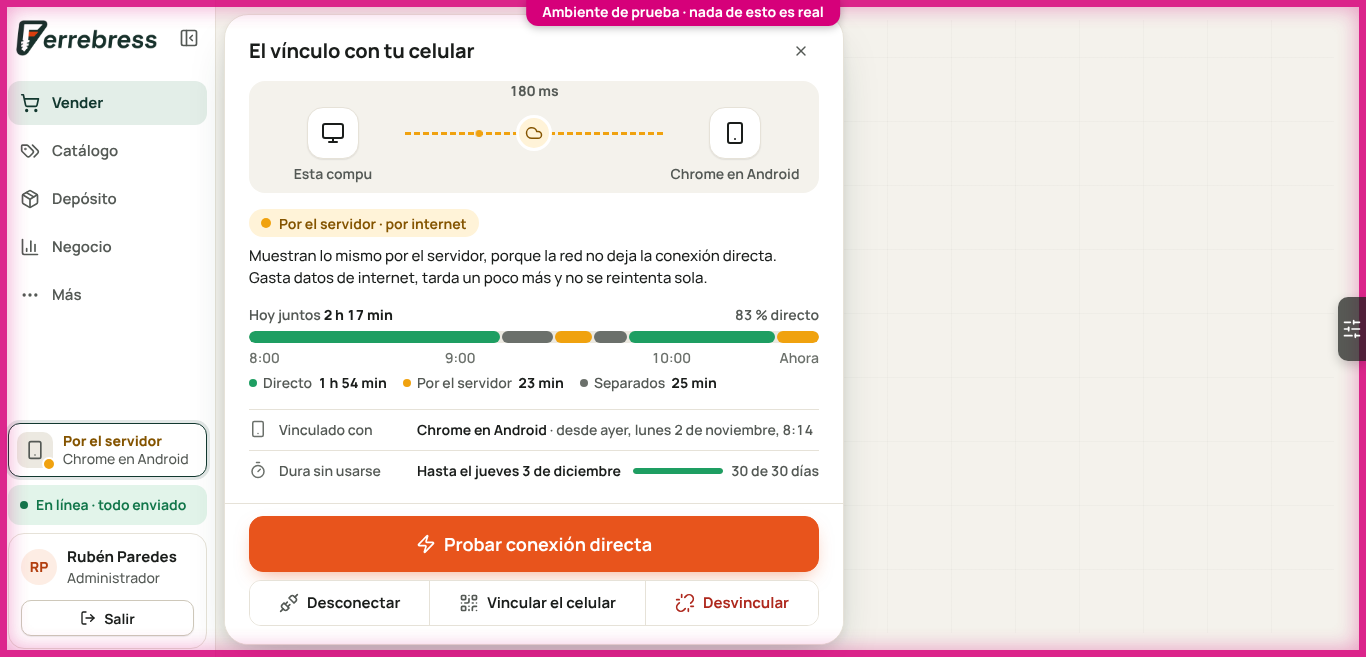
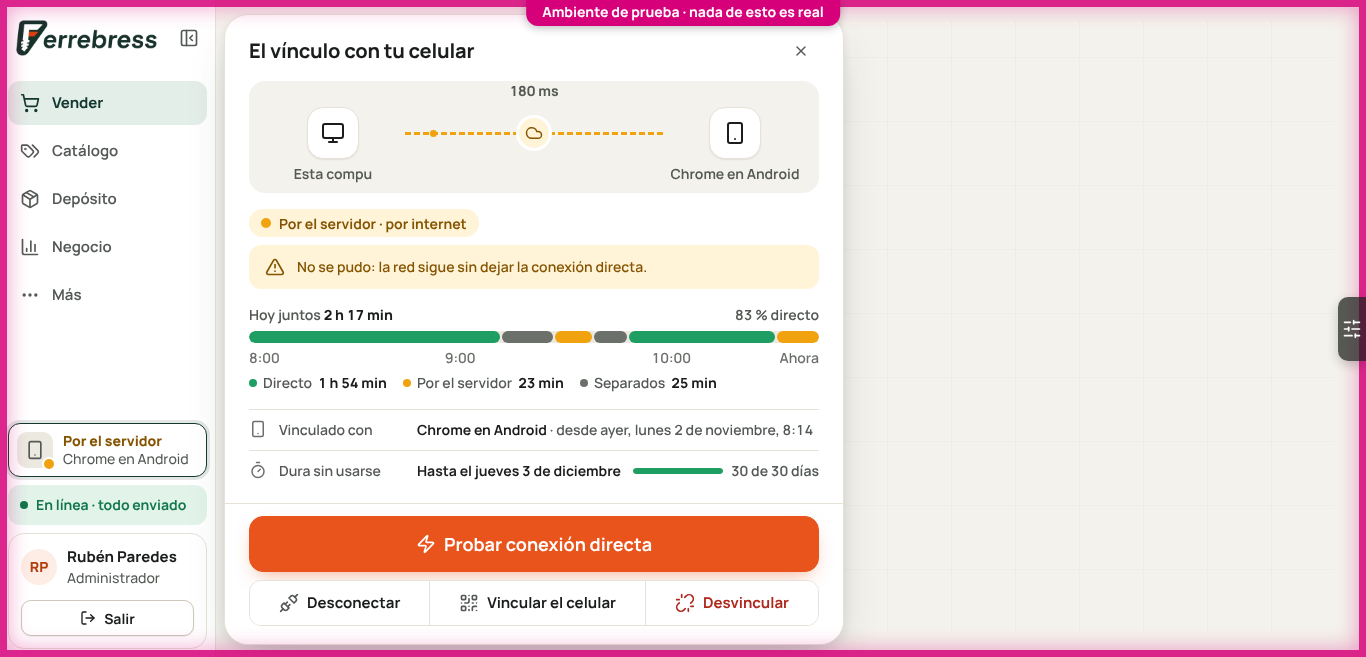
03a · paso 2: Carlos aprobó el indicador del vínculo
El aviso «No se pudo» reemplaza la frase del estado, así la ficha entra sin desplazarse en una
notebook. «Separados» y Alt X para Desvincular, confirmados por Carlos.

Claude-Session: https://claude.ai/code/session_01BmbhiYJAfQvWshUgYzn7JL

Changed region(s): [[0.1845, 0.3653, 0.6149, 0.4566]]

diff --git a/docs/design/mockups/device-link-indicator/final/link.js b/docs/design/mockups/device-link-indicator/final/link.js
@@ -144,9 +144,12 @@
     h += '<div class="ficha-cab"><h2 id="ficha-titulo">' + titulo + '</h2><button type="button" class="btn btn-fantasma chico btn-icono ficha-cerrar" data-a="cerrar" data-key="c" aria-label="Cerrar"><i class="i i-s" data-i="x"></i><span class="kbd">C</span></button></div>';
     h += '<div class="ruta-caja">' + ruta(s) + "</div>";
     var extra = c ? "" : s === "directo" ? " · por el Wi-Fi" : s === "servidor" ? " · por internet" : "";
-    h += '<div class="frase"><span class="estado" data-tone="' + st.tone + '"><span class="dot"></span>' + st.label + extra + "</span><p>" + (c ? st.corto : st.largo) + "</p></div>";
-    if (fallo && s === "servidor") h += '<div class="aviso urgente" id="fallo" role="status"><i class="i" data-i="triangle-alert"></i><span>' +
-      (c ? "No se pudo: la red sigue sin dejar. Siguen por el servidor." : "No se pudo: la red sigue sin dejar la conexión directa.") + "</span></div>";
+    /* Si «Probar conexión directa» no pudo, el aviso reemplaza la frase del estado */
+    var falla = fallo && s === "servidor";
+    var texto = falla ? '<div class="aviso urgente" id="fallo" role="status"><i class="i" data-i="triangle-alert"></i><span>' +
+      (c ? "No se pudo: la red no deja la conexión directa." : "No se pudo: la red sigue sin dejar la conexión directa.") + "</span></div>"
+      : "<p>" + (c ? st.corto : st.largo) + "</p>";
+    h += '<div class="frase"><span class="estado" data-tone="' + st.tone + '"><span class="dot"></span>' + st.label + extra + "</span>" + texto + "</div>";
     if (!vinculado(s)) {
       if (!c) h += '<ol class="pasos"><li><span>Tocá <b>«Vincular el celular»</b>: aparece un código.</span></li><li><span>Leelo con el celular, con tu misma cuenta adentro.</span></li><li><span>Desde ahí, lo que toques en uno se ve en el otro. No pide permisos.</span></li></ol>';
     } else {

diff --git a/docs/design/mockups/device-link-indicator/final/link.css b/docs/design/mockups/device-link-indicator/final/link.css
@@ -106,6 +106,7 @@ body.alt .ficha-cerrar { width: auto; padding: 0 6px 0 8px; }
 .frase { margin: 16px 0 0; display: grid; gap: 8px; }
 .frase p { margin: 0; font-size: 15px; line-height: 22px; color: var(--tinta); }
 .ficha .aviso { margin-top: 12px; }
+.frase .aviso { margin-top: 0; }
 
 /* Los datos del vínculo (R4.2): con qué, desde cuándo, hasta cuándo */
 .datos { margin: 16px 0 0; padding: 0; border-top: 1px solid var(--borde); }

diff --git a/docs/design/mockups/device-link-indicator/final/changes.md b/docs/design/mockups/device-link-indicator/final/changes.md
@@ -7,9 +7,9 @@ depende de `../shared/`: tiene su copia de `icons-extra.js` (los íconos de Luci
 isotipo son los de `common/brand/`.
 
 Capturas: `screenshot.png` (computadora, «Directo», la ficha abierta), `screenshot-server.png`
-(«Por el servidor»), `screenshot-server-failed.png` (con «No se pudo»), `screenshot-alt.png` (con
+(«Por el servidor»), `screenshot-server-failed.png` (con «No se pudo» en lugar de la frase), `screenshot-alt.png` (con
 Alt apretado), `screenshot-code.png` (el código para vincular), `screenshot-notebook.png` (1366 ×
-657, una notebook de 768 px con la barra del navegador), `screenshot-phone.png` (celular, la hoja abierta), `screenshot-phone-closed.png` (celular,
+657, una notebook de 768 px con la barra del navegador, con «No se pudo»), `screenshot-phone.png` (celular, la hoja abierta), `screenshot-phone-closed.png` (celular,
 con la hoja cerrada) y `screenshot-phone-camera.png` (la cámara que lee el código).
 
 El selector gris de la derecha («Maqueta · estado») y `?estado=` siguen como en las variantes, fuera
@@ -55,6 +55,11 @@ del diseño. Con `?abierto=no` arranca con el detalle cerrado.
   - **El aviso de «Probar conexión directa» que falla**, en un renglón: «No se pudo: la red sigue
     sin dejar la conexión directa.» Antes seguía «Siguen por el servidor; probá de nuevo si
     cambiaste de Wi-Fi.»; que siguen por el servidor ya lo dice la pastilla del estado.
+- **El aviso de «No se pudo» reemplaza la frase del estado** (Carlos: «hacé que el aviso reemplace
+  la frase»), en la computadora y en el celular. Antes se sumaba debajo de la frase de «Por el
+  servidor». Ahora, debajo de la pastilla del estado va el aviso en lugar de la frase. La frase
+  vuelve al cambiar de estado. En el celular el aviso dice lo mismo, más corto: «No se pudo: la
+  red no deja la conexión directa.».
   - **La leyenda de la tira** entra en un renglón con el ancho nuevo.
   - **Un poco menos de aire:** 18 px arriba y abajo de la ficha (eran 20), 12 px bajo el título
     (eran 16) y 6 px entre las partes de la tira (eran 8).
@@ -65,12 +70,10 @@ del diseño. Con `?abierto=no` arranca con el detalle cerrado.
     | Sin vincular | 529 | 475 |
     | Directo, Esperando, Sin internet | 826 a 848 | 565 |
     | Por el servidor, Desconectado | 846 a 890 | 629 |
-    | Por el servidor, con «No se pudo» | 986 | 685 |
+    | Por el servidor, con «No se pudo» | 986 | 629 |
     | El código para vincular | 557 | 549 |
 
-    En 1366 × 768 entra todo. En 1366 × 657 entra todo salvo «Por el servidor» con «No se pudo»,
-    al que le sobran 54 px. Ahí la ruta, la tira y los datos se desplazan adentro de la ficha y los
-    botones quedan siempre a la vista al pie.
+    En 1366 × 768 y en 1366 × 657 entran todos los estados sin desplazarse.
 
 ## Por las reglas aprobadas
 
@@ -116,7 +119,7 @@ del diseño. Con `?abierto=no` arranca con el detalle cerrado.
   - Las piezas del celular ya no van adentro de un marco `.celu` dibujado: son las de la página.
 - **Si una pantalla es más baja que la ficha:** la ficha mide como mucho el alto de la pantalla
   menos 24 px; la ruta, la tira y los datos se desplazan adentro y los botones quedan siempre a la
-  vista al pie, sobre una raya fina. Hoy pasa solo en el caso de arriba. En el celular la hoja
+  vista al pie, sobre una raya fina. En 1366 × 657 no pasa en ningún estado. En el celular la hoja
   entra entera en 844 px; si no entrara, se desplaza adentro.
 - **Solo `transform` y `opacity`:**
   - El tilde del código leído se dibujaba animando el trazo (`stroke-dashoffset`). Ahora aparece

diff --git a/docs/chapters/03-device-link/screens.md b/docs/chapters/03-device-link/screens.md
@@ -2,4 +2,4 @@
 
 | # | Pantalla | Qué se tiene que poder hacer | Maqueta |
 |---|---|---|---|
-| 1 | El indicador del vínculo y su detalle | Saber siempre si el celular y la computadora trabajan juntos y cómo se hablan; desde el detalle, vincular, leer el código, desconectar, reconectar, probar la conexión directa y desvincular (R4, R5) | **Elegida** la variante 1, «La ficha», en la computadora y en el celular, con la tira del día de la variante 2 en los colores de la ficha (`mockups/device-link-indicator/`). La final, del maquetador, en `final/` |
+| 1 | El indicador del vínculo y su detalle | Saber siempre si el celular y la computadora trabajan juntos y cómo se hablan; desde el detalle, vincular, leer el código, desconectar, reconectar, probar la conexión directa y desvincular (R4, R5) | **Aprobada**: `mockups/device-link-indicator/final/`, la variante 1 del director («La ficha») con la tira del día de la variante 2. En la computadora, la ficha de 620 px entra sin desplazarse en 1366×657; el aviso «No se pudo» reemplaza la frase de «Por el servidor». El tramo gris de la tira se llama «Separados» y Desvincular va con Alt X (excepción a la letra de la palabra, porque las libres ya las usa el marco) |
